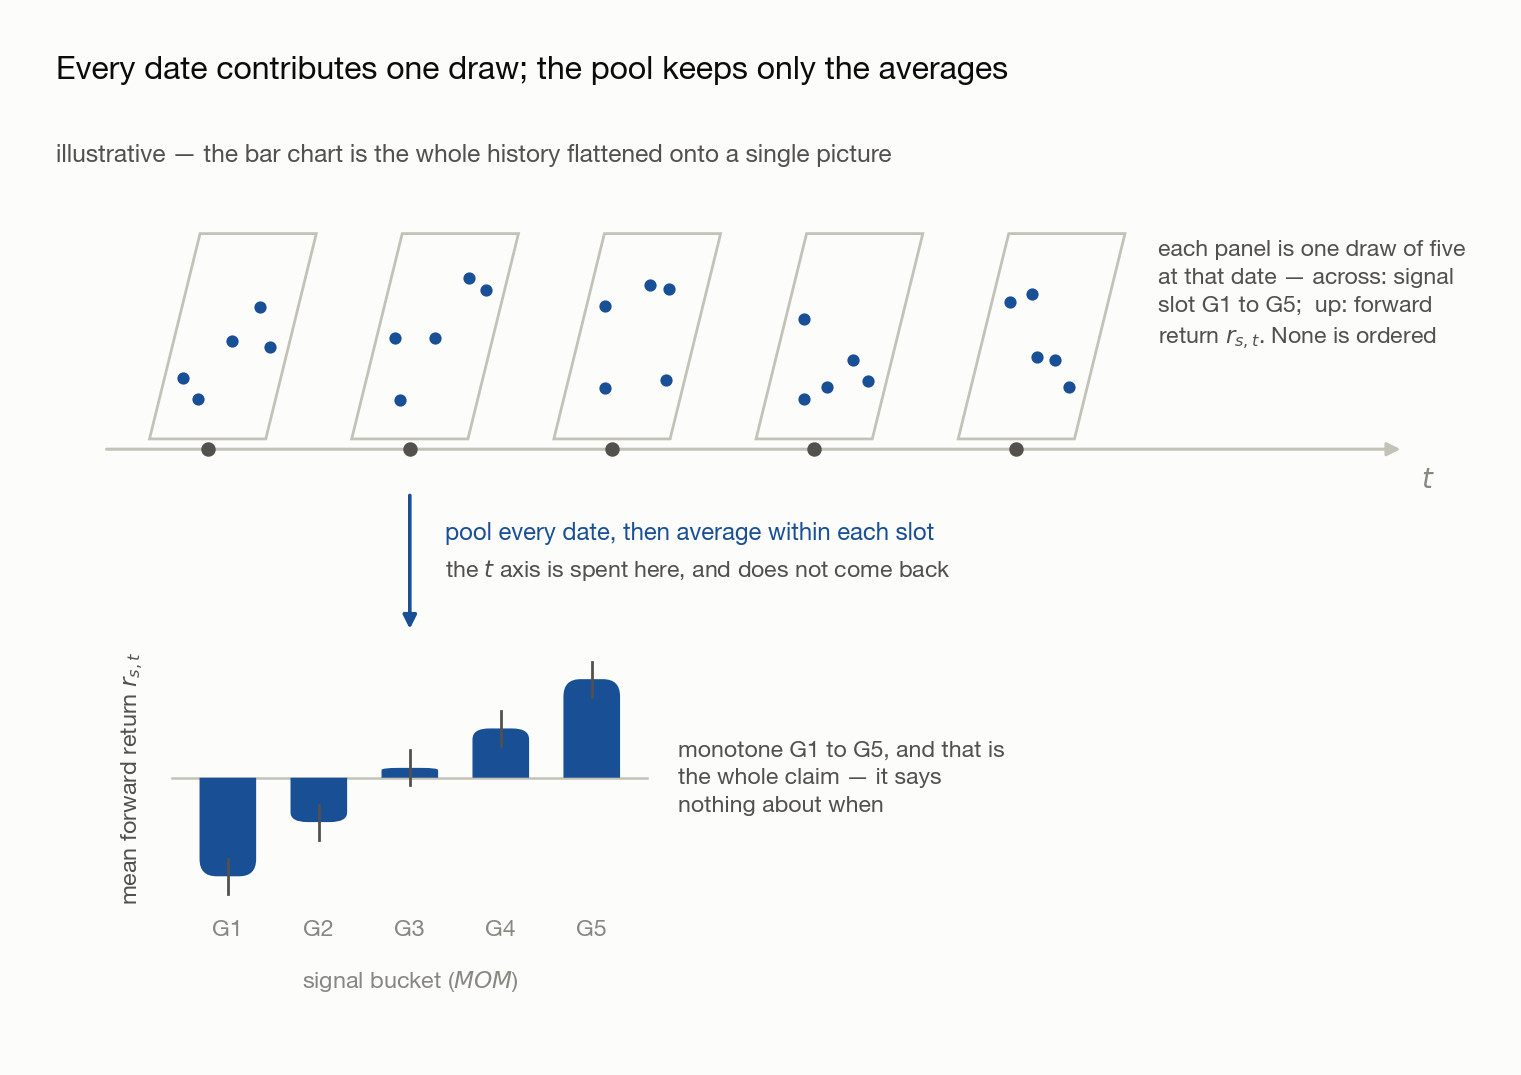
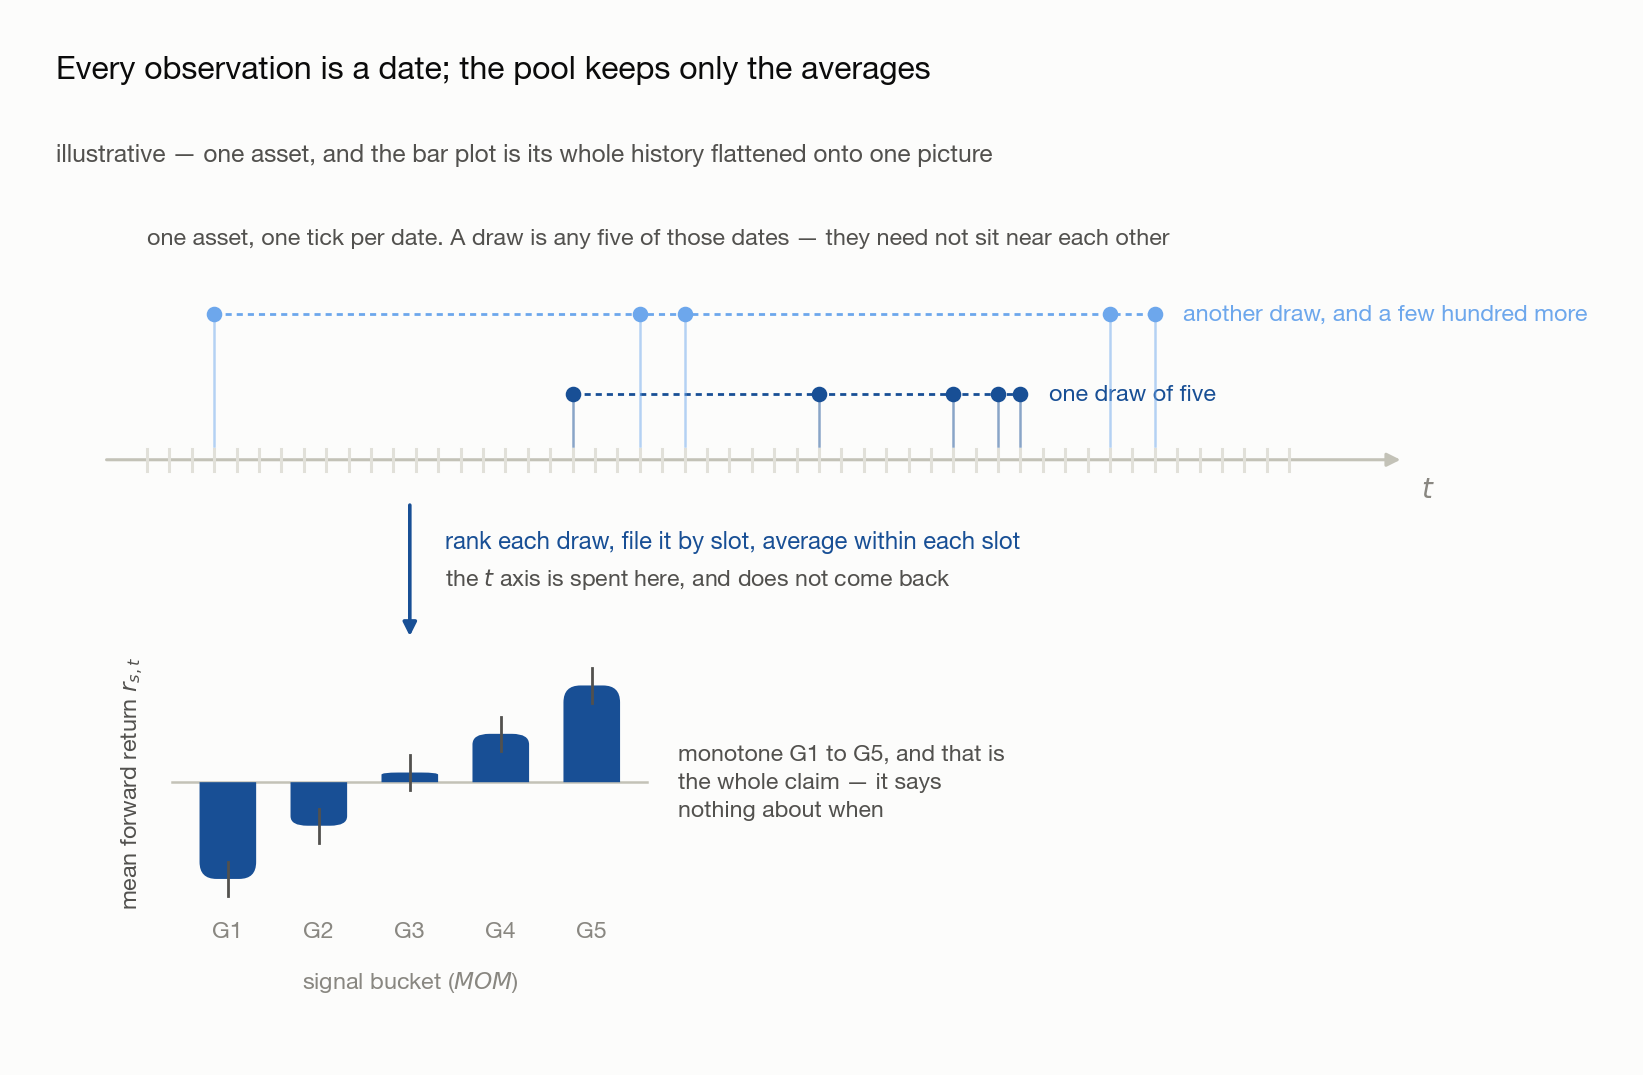
Show a draw as five scattered dates of one asset, not five at one date

diff --git a/docs/figures/make_02_building_signals.py b/docs/figures/make_02_building_signals.py
@@ -29,7 +29,7 @@ an image is neither selectable nor searchable.
 
 import matplotlib.pyplot as plt
 import numpy as np
-from matplotlib.patches import FancyBboxPatch, Polygon
+from matplotlib.patches import FancyBboxPatch
 from _style import THEMES, rounded_bar, save, style_axes, titles
 
 
@@ -508,63 +508,60 @@ def scatter_ladder(mode):
 
 # ------------------------- fig: how the time axis collapses into five bars
 def bucket_time_collapse(mode):
-    """02 s3.2.1 -- every date contributes one draw; pooling them discards t.
+    """02 s3.2.3 -- every observation is a date; pooling the draws discards t.
 
-    Schematic. The strip along the time axis is one draw of five per date,
-    each panel showing slot on the horizontal and forward return on the
-    vertical; none is ordered on its own. Pooling every date leaves the five
-    averages -- and nothing about when they happened.
+    Schematic. One asset, one tick per date along the time axis. A draw of five
+    is five of those dates, scattered rather than adjacent, and the chapter
+    takes a few hundred such draws. Pooling them leaves five averages -- and
+    nothing about when any of it happened.
     """
     t = THEMES[mode]
     rng = np.random.RandomState(11)
 
     AX_Y = 6.6                       # the time axis
-    DATES = [1.7, 3.7, 5.7, 7.7, 9.7]
-    PW, PH, SHEAR = 1.15, 2.0, 0.5   # panel width, height, top-edge offset
 
     fig, ax = plt.subplots(figsize=(9.0, 5.3))
     fig.patch.set_facecolor(t["surface"])
     ax.set_facecolor(t["surface"])
     ax.set_xlim(0.2, 14.0)
-    ax.set_ylim(1.05, 9.0)
+    ax.set_ylim(1.05, 9.15)
     ax.axis("off")
 
-    # ---- the time axis, with one date mark per draw
+    # ---- the asset's own history: one tick per date
     ax.annotate("", xy=(13.5, AX_Y), xytext=(0.7, AX_Y),
                 arrowprops=dict(arrowstyle="-|>", color=t["baseline"], linewidth=1.1,
                                 shrinkA=0, shrinkB=0))
     ax.text(13.7, AX_Y - 0.30, "$t$", ha="left", va="center",
             color=t["muted"], fontsize=10)
-    for x in DATES:
-        ax.plot([x], [AX_Y], marker="o", markersize=4.2, color=t["ink_secondary"],
-                zorder=4)
+    obs = np.linspace(1.1, 12.4, 52)
+    for x in obs:
+        ax.plot([x, x], [AX_Y - 0.11, AX_Y + 0.11], color=t["grid"],
+                linewidth=1.1, zorder=3)
 
-    # ---- one draw of five standing on each date
-    for x in DATES:
-        x0, y0 = x - PW / 2, AX_Y + 0.10
-        ax.add_patch(Polygon(
-            [(x0, y0), (x0 + PW, y0), (x0 + PW + SHEAR, y0 + PH), (x0 + SHEAR, y0 + PH)],
-            closed=True, facecolor=t["surface"], edgecolor=t["baseline"],
-            linewidth=1.0, zorder=3))
-        for k in range(5):
-            fx = 0.16 + 0.17 * k                       # slot, left to right
-            fy = rng.uniform(0.18, 0.82)               # its forward return
-            ax.plot([x0 + fx * PW + SHEAR * fy], [y0 + fy * PH], marker="o",
-                    markersize=3.4, color=t["ramp"][5], zorder=4)
+    # ---- two draws of five: five dates each, of that same one asset
+    draws = ((7.25, t["ramp"][5], "one draw of five"),
+             (8.05, t["ramp"][2], "another draw, and a few hundred more"))
+    for lvl, colour, label in draws:
+        picks = np.sort(obs[rng.choice(len(obs), 5, replace=False)])
+        ax.plot([picks[0], picks[-1]], [lvl, lvl], color=colour, linewidth=1.0,
+                linestyle=(0, (2.2, 1.8)), zorder=3)
+        for x in picks:
+            ax.plot([x, x], [AX_Y + 0.14, lvl], color=colour, linewidth=0.9,
+                    alpha=0.5, zorder=3)
+            ax.plot([x], [lvl], marker="o", markersize=4.6, color=colour, zorder=5)
+        ax.text(picks[-1] + 0.28, lvl, label, ha="left", va="center", color=colour,
+                fontsize=8.4, fontweight="600")
 
-    ax.text(11.1, AX_Y + 1.50,
-            "each panel is one draw of five\n"
-            "at that date — across: signal\n"
-            "slot G1 to G5;  up: forward\n"
-            "return $r_{s,t}$. None is ordered",
-            ha="left", va="center", color=t["ink_secondary"], fontsize=8.3,
-            linespacing=1.5)
+    ax.text(1.1, 8.80,
+            "one asset, one tick per date. A draw is any five of those dates — "
+            "they need not sit near each other",
+            ha="left", va="center", color=t["ink_secondary"], fontsize=8.4)
 
     # ---- the collapse
     ax.annotate("", xy=(3.7, 4.85), xytext=(3.7, AX_Y - 0.45),
                 arrowprops=dict(arrowstyle="-|>", color=t["ramp"][5], linewidth=1.3,
                                 shrinkA=0, shrinkB=0))
-    ax.text(4.05, 5.78, "pool every date, then average within each slot",
+    ax.text(4.05, 5.78, "rank each draw, file it by slot, average within each slot",
             ha="left", va="center", color=t["ramp"][5], fontsize=8.6, fontweight="600")
     ax.text(4.05, 5.42, "the $t$ axis is spent here, and does not come back",
             ha="left", va="center", color=t["ink_secondary"], fontsize=8.3)
@@ -589,8 +586,8 @@ def bucket_time_collapse(mode):
     ax.text(0.95, ZERO, "mean forward return $r_{s,t}$", rotation=90,
             ha="center", va="center", color=t["ink_secondary"], fontsize=8.4)
 
-    titles(ax, t, "Every date contributes one draw; the pool keeps only the averages",
-           "illustrative — the bar chart is the whole history flattened onto a single picture")
+    titles(ax, t, "Every observation is a date; the pool keeps only the averages",
+           "illustrative — one asset, and the bar plot is its whole history flattened onto one picture")
     save(fig, t, f"bucket-time-collapse-{mode}.png")
 
 

diff --git a/docs/02-building-signals.md b/docs/02-building-signals.md
@@ -176,6 +176,11 @@ ordered slots G1 … G5; the vertical axis is the **mean forward return** of the
 into each slot. Every observation lands in exactly one bar, and the error bar on it is the standard
 error of that mean.
 
+**Note (All five bars are one asset).** The sort runs across that asset's **dates**, not across its
+peers — G1 holds the dates on which its own signal was lowest. The cross-sectional version, where
+the assets are ranked against one another on the same date, is a different chart and belongs to
+[03](03-from-signal-to-position.md).
+
 Five steps build it:
 
 1. **Draw** five observations at random — one observation is one asset-date.
@@ -264,13 +269,13 @@ not really reach 7 bp. The logic survives: averaging cancels noise and leaves sy
 
 #### 3.2.3 What the bar plot cannot show
 
-Steps 1 to 4 were drawn as though the draws floated free of the calendar. They do not: one
-observation is one **date**, so every draw stands somewhere on $t$, and step 5 flattens the whole
-strip into five numbers.
+Steps 1 to 4 were drawn as though the observations floated free of the calendar. They do not: one
+observation is one **date**, so a draw of five is five dates lifted out of that asset's history —
+scattered, not adjacent — and step 5 flattens a few hundred such draws into five numbers.
 
 <picture>
   <source media="(prefers-color-scheme: dark)" srcset="figures/bucket-time-collapse-dark.png">
-  <img alt="A horizontal time axis labelled t with five dates marked on it. Standing on each date is a small slanted panel holding one draw of five points, signal slot G1 to G5 across and forward return up, and none of the five panels shows any ordering. An arrow labelled pool every date then average within each slot points down from the axis to a bar plot of mean forward return against signal bucket, five bars with error bars rising monotonically from about minus 20 basis points at G1 to plus 20 at G5, annotated that the ordering is the whole claim and that the chart says nothing about when the edge happened" src="figures/bucket-time-collapse-light.png">
+  <img alt="A horizontal time axis labelled t carrying one small tick per date of a single asset's history. Above it, two draws of five are marked, each as five stems rising from five widely separated dates to a dashed connector, showing that a draw is any five dates and that they need not sit near each other. An arrow labelled rank each draw, file it by slot, average within each slot points down from the axis to a bar plot of mean forward return against signal bucket, five bars with error bars rising monotonically from about minus 20 basis points at G1 to plus 20 at G5, annotated that the ordering is the whole claim and that the chart says nothing about when the edge happened" src="figures/bucket-time-collapse-light.png">
 </picture>
 
 Step 5 integrates over $t$, and an integral hands back an area, never the shape of the function
